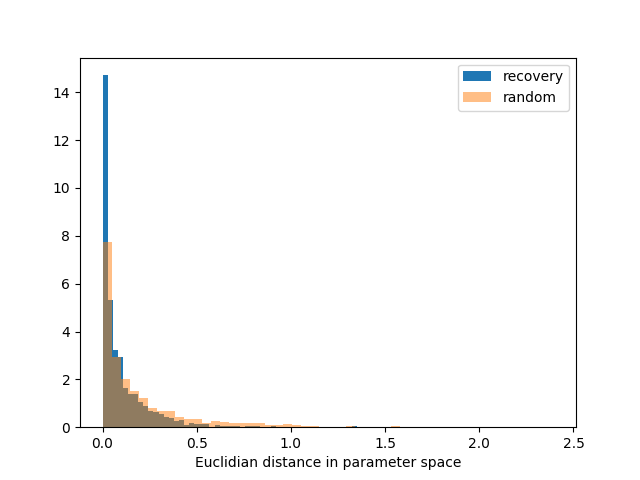
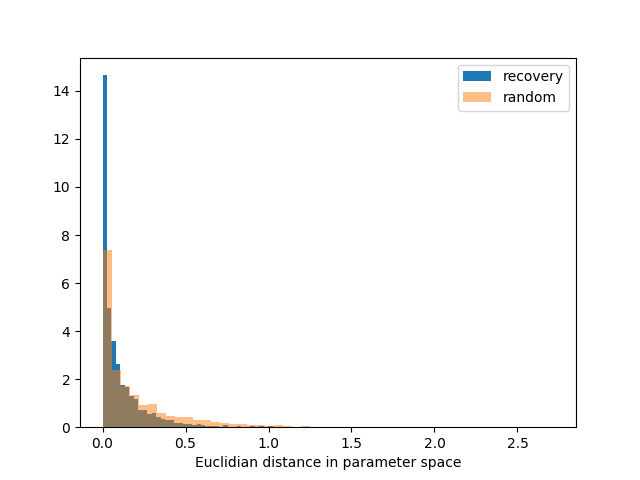
More simulation work

diff --git a/Docs/Data/data_report.tex b/Docs/Data/data_report.tex
@@ -12,7 +12,11 @@
 \date{September 2018}
 \begin{document}
 
+
 \maketitle
+\begin{abstract}Given employment size distributions of enterprises by location and industry individually, and granular company registry data, it is possible to produce a detailed granular dataset of UK companies (containing the age, employment size, number of branches and location through time of each company) by assuming a simple growth model. To study the accuracy of the size assignments, it is possible to develop simulations to test the ability of the assignment methods to reproduce model parameters. 
+\end{abstract}
+ 
 \section{Introduction}
 Contemporary economic modeling requires detailed granular data. Typically highly granular data is not available due to difficulties collecting such data or privacy issues in releasing the information. In the case of UK companies data, an ideal dataset would contain the size (employment and turnover) along with location through time and branches of the companies operating in the UK. The UK Companies House service provides basic company data on active companies, which can, as detailed in this report, be used to provide the backbone of a dataset. The entities registered on companies house are used for legal purposes for the government to track companies operating in the UK, and this legal information is freely available and so does not contain useful data such as the location of branches, number of employees and turnover information\footnote{For large companies, they are required to publish turnover information, but this is not in a machine readable format}. The ONS does produce detailed agglomerated data, giving size distributions by location and company type, but these distributions do not give data about different companies. Using these distributions, the companies house data and simple models of company growth, it is possible to assign sizes to the companies house entities to compile a detailed granular dataset of UK companies and their branches. This report explains the process of producing that dataset and its evaluation using other ONS data.  
 
@@ -28,7 +32,8 @@ Since there are different types of entities in each of the datasets, it is worth
 \begin{itemize}
  \item Company - an entity registered on Companies House
  \item Enterprise - a business that is reported by ONS. We assume that an enterprise is a collection of companies.
- \item Local Unit - a site where an enterprise operates, e.g. a branch of a large supermarket chain or the only office of a small firm.
+ \item Local Unit - a site where an enterprise operates, e.g. a branch of a large supermarket chain or the only location from which a small firm operates.
+ \item Local Authority - a connected area of land the UK governed by a council. At the time of writing, local authorities have a population of 170 000 people and 7 000 enterprises on average.
 \end{itemize}
 \section{Predicting Enterprise and Local Unit size distributions from companies}
 \subsection{Assigning Companies to Enterprises}
@@ -53,7 +58,7 @@ The hypothesis for the appearance of the log normal distributions of company siz
  X_i = \prod_{j=1}^{i}(1 + \epsilon_j)
  \label{company_size}
 \end{equation}
-where $\epsilon_i \sim N(\alpha, \beta^2)$ and is independent. This can be tested using the granular data, since the size distributions and ages of companies are known, such that if $X$ represents the size of a company picked at random then
+where $\epsilon_i \sim \mathcal{N}(\alpha, \beta^2)$ and is independent. This can be tested using the granular data, since the size distributions and ages of companies are known, such that if $X$ represents the size of a company picked at random then
 \begin{equation}
  X = \sum_{i}\mathbf{1}_{Zi}X_i
  \label{overall_dist}
@@ -79,7 +84,7 @@ since $\mathbb{P}(a_i < X < a_{i + 1}) = \mathbb{P}(\log a_i < \log X < \log a_{
 For the employment size distributions of enterprises and local units the the fitted parameters predict the ratios $\frac{n_i}{N}$ well and in the case of local authorities the distributions predict the total employment well so it is perhaps reasonable to assume that the actual distribution is log normal. Whether it is possible for other distributions (Yule or other fat tailed distributions) to reproduce these results is something worth testing, but for the purposes of predicting enterprise and local unit sizes, the log normal distribution seems to work well.
 
 \subsection{Log Normal Sum Approximation}
-Given an indexed set of random variables $\{X_i\}$ such that $\log X_i = \mathcal{N}(\mu_i, {\sigma_i}^2)$ an important question for this study is whether the random variable $X = \sum_i\mathbf{1}_{Zi}X_i$ has a distribution that is approximately log normal, and whether there exist non trivial requirements of the distribution ${(\mu_i, \sigma_i)}$ given the distribution of $Z$ for $X$ to be log normally distributed\footnote{A trivial example is that $\forall i, \ (\mu_i, \sigma_i) = (\mu, \sigma)$, so $X = kX_i$ and is therefore log normally distributed.}. If this were the case then the fact that there is a conservation of the log normal distributions and that the distribution of $Z$ is known, then a more accurate prediction of ${(\mu_i, \sigma_i)}$ could be calculated to get a better prediction of company size.
+Given an indexed set of random variables $\{X_i\}$ such that $\log X_i \sim \mathcal{N}(\mu_i, {\sigma_i}^2)$ an important question for this study is whether the random variable $X = \sum_i\mathbf{1}_{Zi}X_i$ has a distribution that is approximately log normal, and whether there exist non trivial requirements of the distribution ${(\mu_i, \sigma_i)}$ given the distribution of $Z$ for $X$ to be log normally distributed\footnote{A trivial example is that $\forall i, \ (\mu_i, \sigma_i) = (\mu, \sigma)$, so $X = kX_i$ and is therefore log normally distributed.}. If this were the case then the fact that there is a conservation of the log normal distributions and that the distribution of $Z$ is known, then a more accurate prediction of ${(\mu_i, \sigma_i)}$ could be calculated to get a better prediction of company size.
 Running simulations with the given data, to make sure that the parameter choice is relevant, results in $X$ being approximately log normally distributed for both the local authority distributions and SIC distributions. %TODO: expand and test this claim, hopefully say something interesing
 \subsection{Gibrat process parameter fitting}
 Assuming equations (\ref{company_size}) and (\ref{overall_dist})
@@ -97,9 +102,9 @@ Assuming $\mathbb{E}(X)$ is known,
 is a polynomial in $(1 + \alpha)$ of quite a high order (depending on the time step) which can be solved numerically to find $\alpha$.
 The variance is much the same, given that 
 \begin{align}
- \mathrm{Var}(X_i) &= \sum_{i,j}\mathrm{Cov}(\mathbf{1}_{Zi}X_i,\mathbf{1}_{Zj}X_j) \\&= \sum_{i,j} \delta_{ij}\frac{n_i}{N}(\beta^2 + (1+\alpha)^2)^i - \frac{n_in_j}{N^2}(1 + \alpha)^{i + j}
+ \mathrm{Var}(X) &= \sum_{i,j}\mathrm{Cov}(\mathbf{1}_{Zi}X_i,\mathbf{1}_{Zj}X_j) \\&= \sum_{i,j} \delta_{ij}\frac{n_i}{N}(\beta^2 + (1+\alpha)^2)^i - \frac{n_in_j}{N^2}(1 + \alpha)^{i + j}
 \end{align}
-which is also a polynomial, this time in $(\beta^2 + (1+\alpha)^2)$, that can be solved numerically knowing $\alpha$. $\beta$ can the be calculated provided that the underlying known ages do not themselves create too much variance in the final distribution.
+which is also a polynomial, this time in $(\beta^2 + (1+\alpha)^2)$, that can be solved numerically knowing $\alpha$. $\beta$ can then be calculated provided that the underlying known ages do not themselves create too much variance in the final distribution, such that solving the above polynomial implies that $\beta^2 < 0$ which is generally the case if the assumption is made that $\alpha$ and $\beta$ depend only on location or only on SIC code.
 
 
 

diff --git a/Data Analysis/Simulation of Size assignment problem/parameter_recovery.py b/Data Analysis/Simulation of Size assignment problem/parameter_recovery.py
@@ -6,10 +6,37 @@ import matplotlib.pyplot as plt
 
 
 def main():
-    a = 50
-    b = 50
+    _, _,_, results, random_results, mean_distances, random_mean_distances, variance_distances, random_variance_distances = parameter_recovery(200000, 50, 50)
+
+
+    plt.figure(0)
+    plt.hist(results, 50, density=True, label='recovery')
+    plt.hist(random_results, 50, density=True, alpha=0.5, label='random')
+    plt.legend()
+    plt.xlabel('Euclidian distance in parameter space')
+    plt.savefig('recovery distance histogram 200000 normal with random.png')
+
+    plt.figure(1)
+    plt.hist(mean_distances, 50, density=True, label='recovery')
+    plt.hist(random_mean_distances, 50, density=True, alpha=0.5, label='random')
+    plt.legend()
+    plt.plot([0, 0], [0, 1.4])
+    plt.xlabel('difference between recovery mean and actual')
+    plt.savefig('mean distance histogram normal with random.png')
+
+    plt.figure(2)
+    plt.hist(variance_distances, 50, density=True, label='recovery')
+    plt.hist(random_variance_distances, 50, density=True, alpha=0.5, label='random')
+    plt.legend()
+    plt.plot([0, 0], [0, 30])
+    plt.xlabel('difference between recovery variance and actual')
+    plt.savefig('variance distance histogram normal with random.png')
+
+    plt.show()
+
+def parameter_recovery(n, a, b):
     parameters = simulation.generate_parameters(a, b)
-    sizes, _ = simulation.generate_sizes(parameters, a, b, 200000)
+    sizes, _ = simulation.generate_sizes(parameters, a, b, n)
 
     #assume log norm dist and find params of those distributions
     lognorm_dist_params_by_a, lognorm_dist_params_by_b = get_log_normal_params(sizes, a, b)
@@ -80,40 +107,16 @@ def main():
             if j not in new_sizes[i]:
                 continue
             mean, var = get_log_normal_params_from_array(new_sizes[i][j])
-            results.append((parameters[i][j][0] - mean) ** 2 + (parameters[i][j][1] - var) ** 2)
+            results.append((parameters[i][j][0] - mean) ** 2 + (parameters[i][j][1] ** 2 - var) ** 2)
             p = multivariate_normal.rvs([0.001, 0.1], cov=[[0.1, 0], [0, 0.0001]])
-            random_results.append((parameters[i][j][0] - p[0]) ** 2 + (parameters[i][j][1] - p[1]) ** 2)
+            random_results.append((parameters[i][j][0] - p[0]) ** 2 + (parameters[i][j][1] ** 2 - p[1]) ** 2)
             mean_distances.append(parameters[i][j][0] - mean)
             random_mean_distances.append(parameters[i][j][0] - p[0])
 
-            variance_distances.append(parameters[i][j][1] - var)
-            random_variance_distances.append(parameters[i][j][1] - p[1])
+            variance_distances.append(parameters[i][j][1] ** 2 - var)
+            random_variance_distances.append(parameters[i][j][1] ** 2 - p[1])
 
-    plt.figure(0)
-    plt.hist(results, 50, density=True, label='recovery')
-    plt.hist(random_results, 50, density=True, alpha=0.5, label='random')
-    plt.legend()
-    plt.xlabel('Euclidian distance in parameter space')
-    plt.savefig('recovery distance histogram 200000 normal with random.png')
-
-    plt.figure(1)
-    plt.hist(mean_distances, 50, density=True, label='recovery')
-    plt.hist(random_mean_distances, 50, density=True, alpha=0.5, label='random')
-    plt.legend()
-    plt.plot([0, 0], [0, 1.4])
-    plt.xlabel('difference between recovery mean and actual')
-    plt.savefig('mean distance histogram normal with random.png')
-
-    plt.figure(2)
-    plt.hist(variance_distances, 50, density=True, label='recovery')
-    plt.hist(random_variance_distances, 50, density=True, alpha=0.5, label='random')
-    plt.legend()
-    plt.plot([0, 0], [0, 30])
-    plt.xlabel('difference between recovery variance and actual')
-    plt.savefig('variance distance histogram normal with random.png')
-    plt.show()
-
-
+    return parameters, sizes, new_sizes, results, random_results, mean_distances, random_mean_distances, variance_distances, random_variance_distances
 
 
 def get_log_normal_params(sizes, a, b):

diff --git a/Data Analysis/Simulation of Size assignment problem/simulation.py b/Data Analysis/Simulation of Size assignment problem/simulation.py
@@ -12,8 +12,10 @@ def main():
     var = np.var(np.log(size_array), ddof=1)
     plt.figure(0)
     plt.hist(size_array, 50, density=True)
-    plt.plot(np.linspace(0, 4), lognorm.pdf(np.linspace(0, 4), np.sqrt(var), scale=np.exp(mean)), label='lognorm, mean: ' + str(mean) + ', var: ' + str(var))
+    plt.plot(np.linspace(0, 4), lognorm.pdf(np.linspace(0, 4), np.sqrt(var), scale=np.exp(mean)), label='Fitted lognormal pdf')
     plt.xlabel('Size')
+    plt.legend()
+
     plt.savefig('simulated global distribution uniform parameters.png')
     plt.figure(1)
     size_cross_section = sizes[0]
@@ -26,10 +28,14 @@ def main():
     var  = np.var(np.log(size_array_cross_section), ddof=1)
 
     plt.hist(size_array_cross_section, 50, density=True)
-    plt.plot(np.linspace(0, 4), lognorm.pdf(np.linspace(0, 4), np.sqrt(var), scale=np.exp(mean)), label='lognorm, mean: ' + str(mean) + ', var: ' + str(var))
+    plt.plot(np.linspace(0, 4), lognorm.pdf(np.linspace(0, 4), np.sqrt(var), scale=np.exp(mean)), label='Fitted lognormal pdf')
+    plt.legend()
     plt.xlabel('Size')
-    plt.savefig('simulated crossectional distribution uniform parameters.png')
+    plt.savefig('simulated crossectional distribution normal parameters.png')
     plt.show()
+
+
+
 
 def generate_parameters(a, b):
     parameters = {}
@@ -48,7 +54,7 @@ def generate_sizes(parameters, a, b, n):
         id_1 = random.randint(0, a - 1)
         id_2 = random.randint(0, b - 1)
         #print(parameters[a][b][1])
-        size = lognorm.rvs(parameters[id_1 ][id_2][1], scale=np.exp(parameters[id_1][id_2][0]))
+        size = lognorm.rvs(parameters[id_1][id_2][1], scale=np.exp(parameters[id_1][id_2][0]))
         size_array.append(size)
 
         if id_1 in sizes:

diff --git a/Data Analysis/Simulation of Size assignment problem/growth_process_simulation.py b/Data Analysis/Simulation of Size assignment problem/growth_process_simulation.py
@@ -1,0 +1,37 @@
+import random, numpy as np
+from scipy.stats import multivariate_normal, norm, lognorm
+import matplotlib.pyplot as plt
+
+
+def main():
+    a = 50
+    b = 50
+    max_age = 10 * 12
+    max_companies = 400000 * 2 / (a * b)
+    ages = {i: {j: [random.randint(0, max_age - 1) for _ in range(random.randint(0, max_companies - 1))] for j in range(b)} for i in range(a)}
+
+    means = {i: {j: x for j, x in enumerate(multivariate_normal.rvs([0.0001] * b, cov=0.0001))} for i in range(a)}
+    variances  = {i: {j: x ** 2 for j, x in enumerate(multivariate_normal.rvs([0.001] * b, cov=0.001))} for i in range(a)}
+
+    #simulate growth process
+
+    sizes = []
+    for i, data in ages.items():
+        for j, age_data in data.items():
+            for age in age_data:
+                sizes.append(norm.rvs(1 + means[i][j], np.sqrt(variances[i][j]), size=age).prod())
+
+    mean = np.mean(np.log(sizes))
+    variance = np.var(np.log(sizes), ddof=1)
+
+    x = np.linspace(0, 20)
+
+    plt.hist(sizes, 60,range=[0, 20], density=True)
+    plt.plot(x, lognorm.pdf(x, np.sqrt(variance), scale=np.exp(mean)))
+    plt.savefig('growth_simulation_global_dist.png')
+    plt.show()
+
+
+
+if __name__ == '__main__':
+    main()

diff --git a/Data Analysis/Simulation of Size assignment problem/contour_plot.py b/Data Analysis/Simulation of Size assignment problem/contour_plot.py
@@ -1,0 +1,45 @@
+import parameter_recovery
+import matplotlib.pyplot as plt
+import numpy as np
+
+
+def main():
+    parameters, sizes, new_sizes, results, random_results, mean_distances, random_mean_distances, variance_distances, random_variance_distances = parameter_recovery.parameter_recovery(50000, 50, 50)
+
+    new_params = calculate_new_params(new_sizes)
+
+    x = []
+    y = []
+
+    for i, data in new_params.items():
+        for j, d in data.items():
+            x.append(d[0])
+            y.append(d[1])
+
+    a = []
+    b = []
+
+    for i, data in parameters.items():
+        for j, d in data.items():
+            a.append(d[0])
+            b.append(d[1])
+
+    plt.figure(0)
+    plt.hist2d(x, y, 40)
+    plt.figure(1)
+    plt.hist2d(a, b, 40)
+    plt.show()
+
+def calculate_new_params(data):
+    params = {}
+    for i, d in data.items():
+        params[i] = {}
+        for j, arr in d.items():
+            mean = np.mean(np.log(arr))
+            var = np.var(np.log(arr))
+            params[i][j] = [mean, var]
+
+    return params
+
+if __name__ == '__main__':
+    main()
